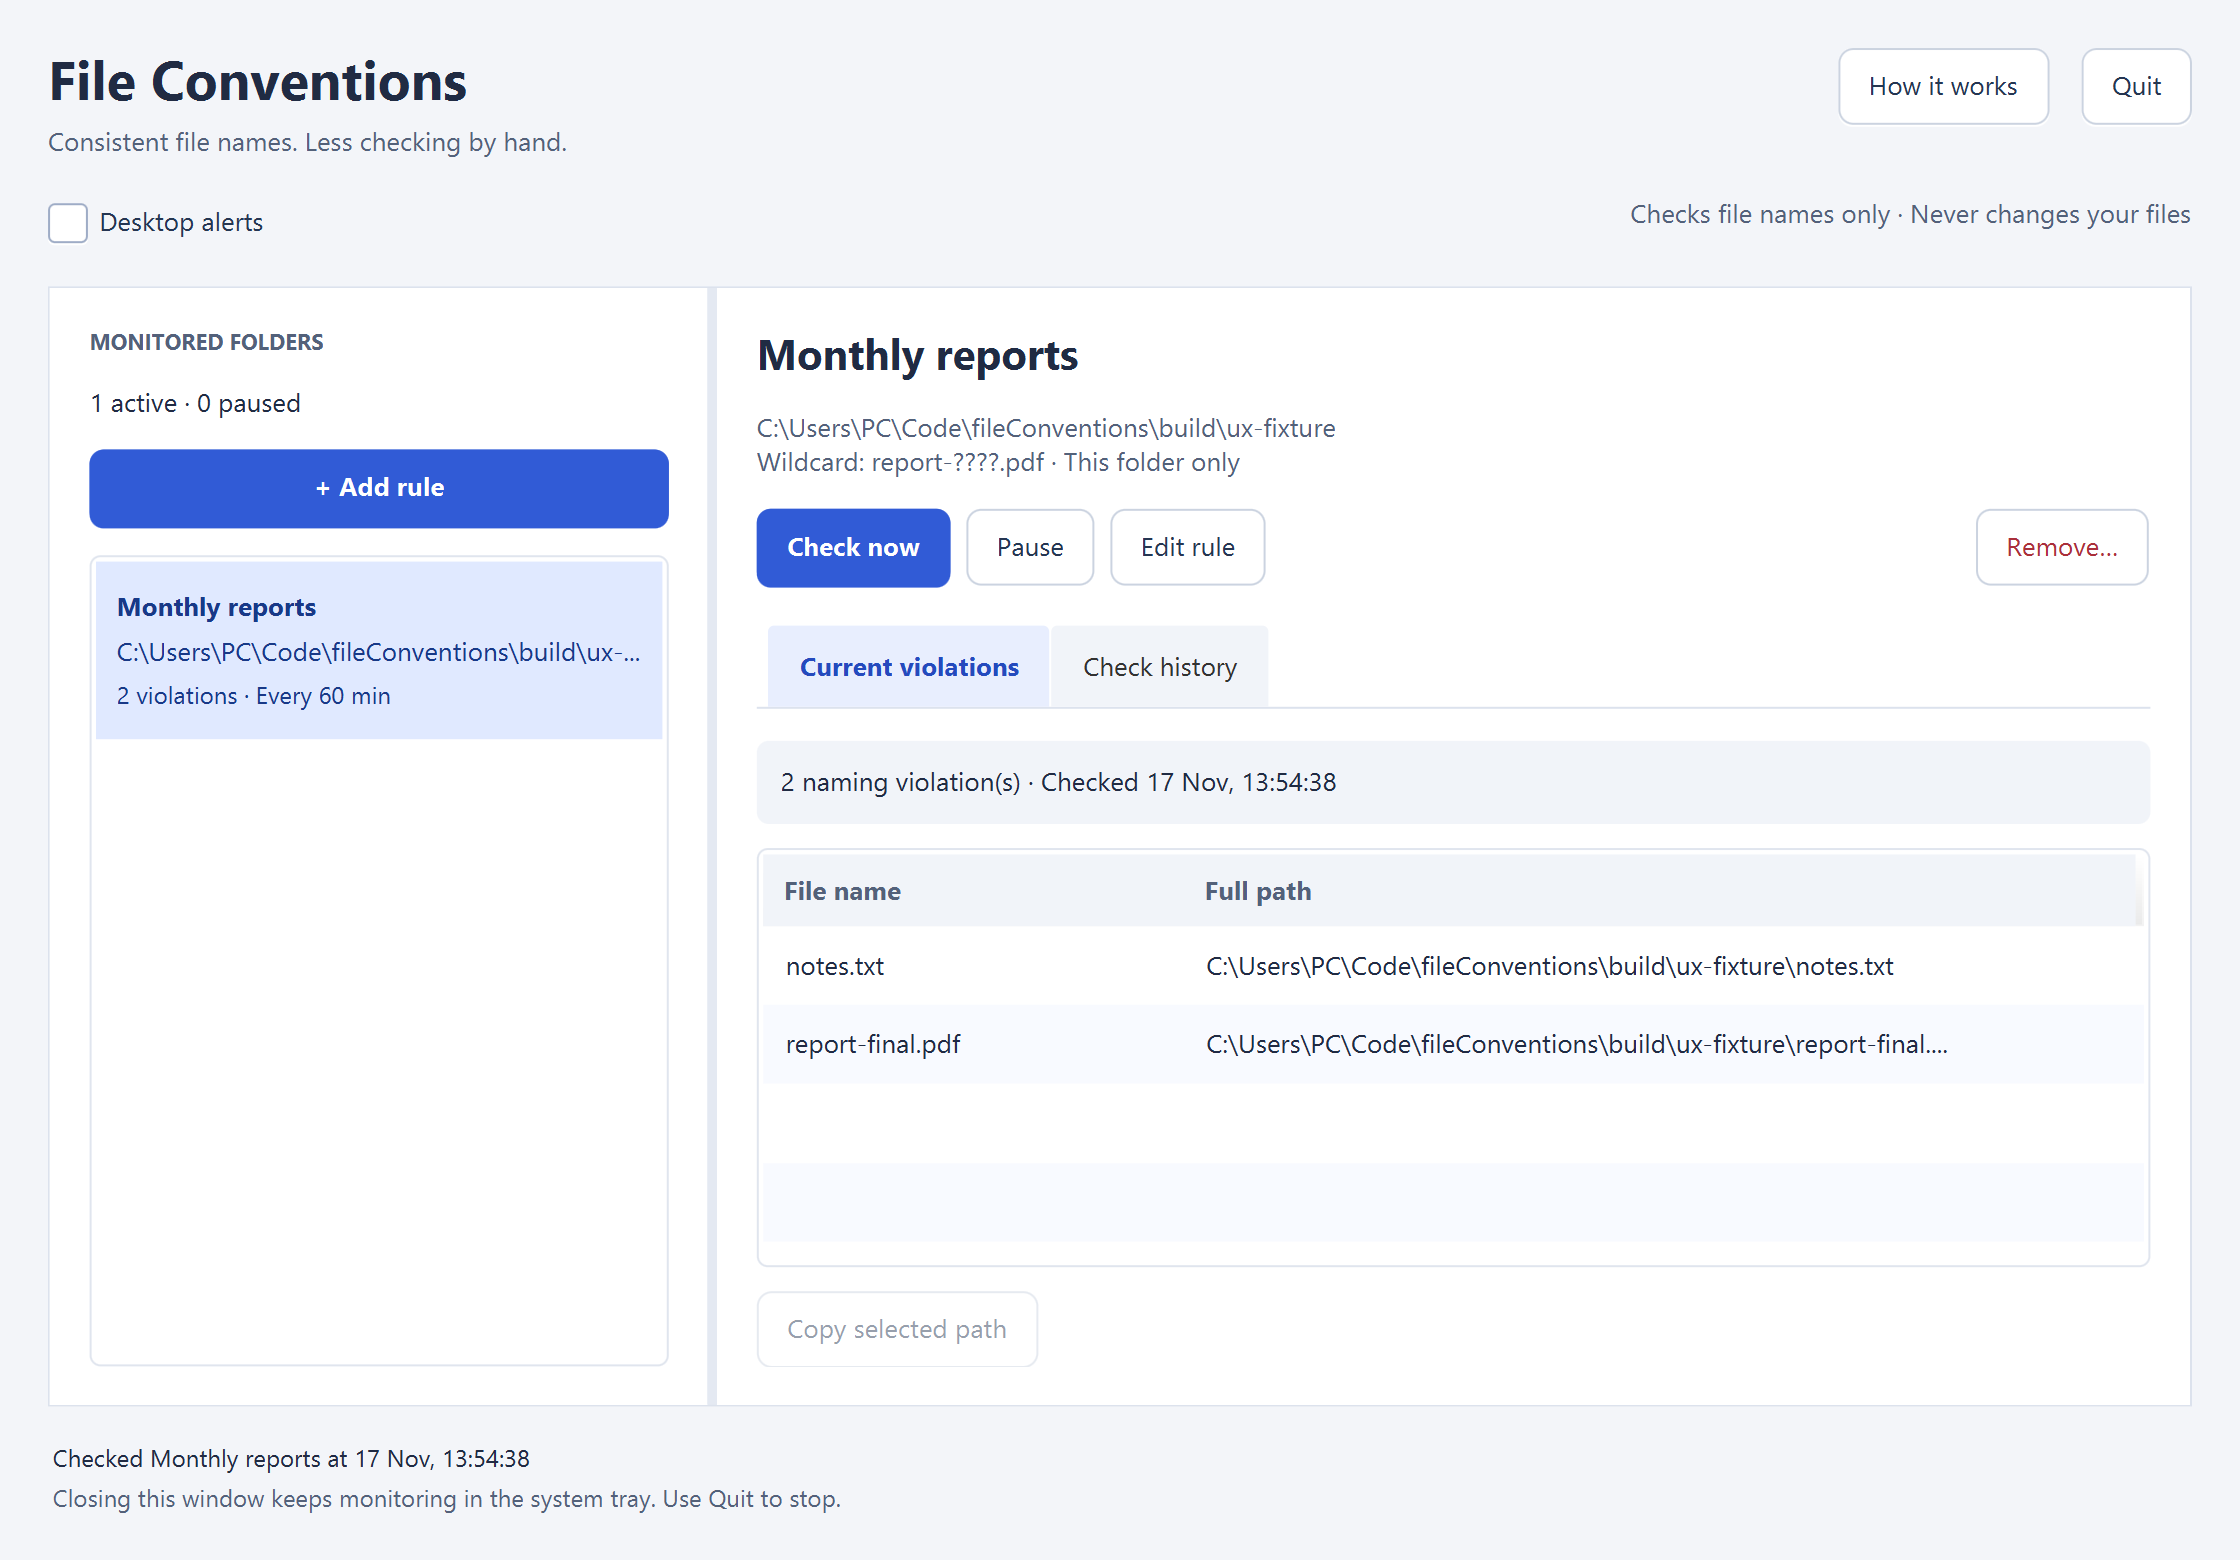
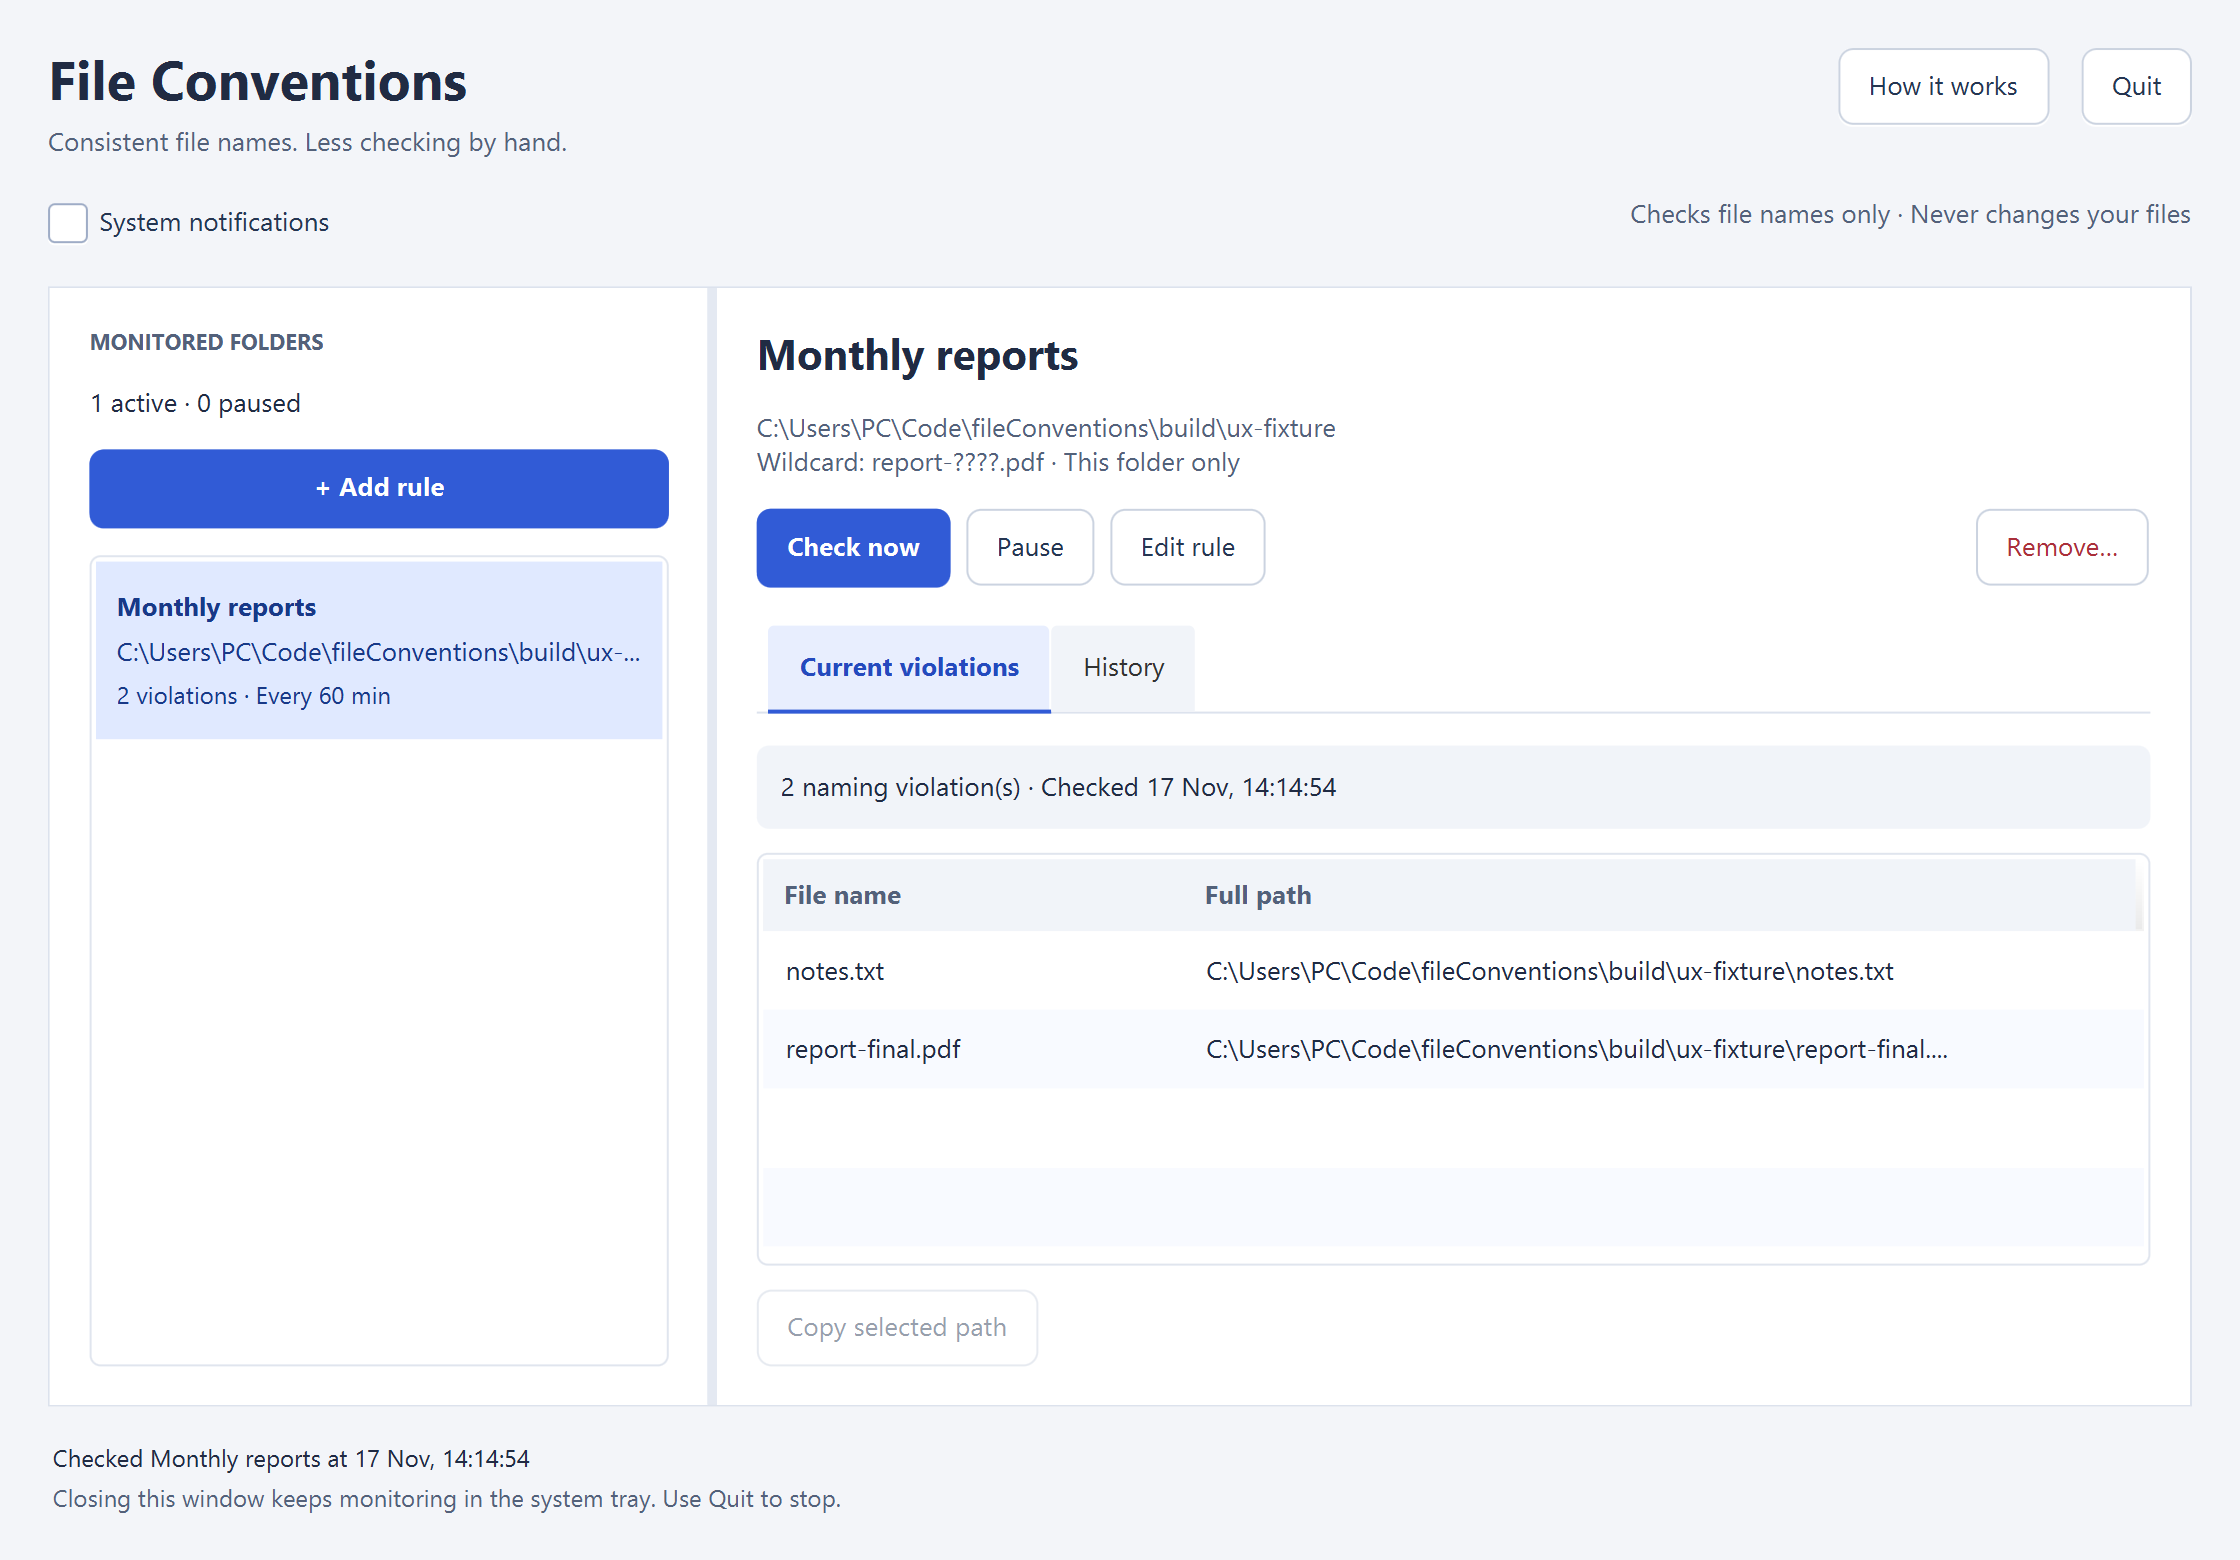
Clarify history counts and simplify tab styling

diff --git a/src/main/kotlin/fileConventions/MainPage.kt b/src/main/kotlin/fileConventions/MainPage.kt
@@ -35,14 +35,17 @@ class MainPage : Application() {
   private val ruleTitle = Label("Your naming checks, at a glance")
   private val ruleDescription = Label()
   private val overview = Label()
-  private val runs = FXCollections.observableArrayList<CheckResult>()
+
+  private data class HistoryEntry(val result: CheckResult, val newViolations: Int)
+
+  private val runs = FXCollections.observableArrayList<HistoryEntry>()
   private val runList = ListView(runs)
   private val runDetails =
       TextArea().apply {
         isEditable = false
         isWrapText = true
       }
-  private val notifications = CheckBox("Desktop alerts")
+  private val notifications = CheckBox("System notifications")
   private val status = Label("Ready")
   private val background = Label()
   private val results = mutableMapOf<String, CheckResult>()
@@ -101,7 +104,7 @@ class MainPage : Application() {
       Platform.runLater {
         if (rules.none { it == result.rule }) return@runLater
         checking.remove(result.rule.id)
-        runs.add(0, result)
+        runs.add(0, HistoryEntry(result, fresh))
         if (runs.size > 100) runs.removeAt(runs.lastIndex)
         latestResults[result.rule.id] = result
         if (result.error == null) results[result.rule.id] = result
@@ -109,7 +112,7 @@ class MainPage : Application() {
         list.refresh()
         status.text =
             if (result.error != null)
-                "Could not check ${result.rule.name}. See Check history for details."
+                "Could not check ${result.rule.name}. See History for details."
             else "Checked ${result.rule.name} at ${time(result.checkedAt)}"
         if (fresh > 0 && notifications.isSelected)
             tray?.displayMessage(
@@ -319,7 +322,7 @@ class MainPage : Application() {
     notifications.tooltip =
         Tooltip(
             if (tray == null)
-                "Desktop alerts require a supported system tray. Checks still work here."
+                "System notifications require a supported system tray. Checks still work here."
             else
                 "Alert once per new violation. Unchanged violations won’t repeat alerts during this session.")
     stage.setOnCloseRequest {
@@ -358,7 +361,7 @@ class MainPage : Application() {
                 "Select a rule to see violations. Check now refreshes immediately, even for a paused rule. Fix names yourself in your file manager; the next check clears resolved violations."),
             label("While you work", "step-title"),
             label(
-                "Enabled rules check on startup, periodically, and after folder changes (with a short settling delay). Desktop alerts appear for new violations; unchanged ones won’t repeat during this session. Check history holds the latest 100 checks until you quit."),
+                "Enabled rules check on startup, periodically, and after folder changes (with a short settling delay). System notifications appear for new violations; unchanged ones won’t repeat during this session. History holds the latest 100 checks until you quit, with total and newly detected violation counts for each check."),
             label(background.text),
             label("Open the app after signing in: installation does not enable automatic startup."),
             label("The app never renames, deletes, or changes your files.", "safe-note"))
@@ -413,34 +416,51 @@ class MainPage : Application() {
         }
     runList.placeholder = label("No checks yet.\nEnabled rules check automatically after saving.")
     runList.setCellFactory {
-      object : ListCell<CheckResult>() {
-        override fun updateItem(item: CheckResult?, empty: Boolean) {
+      object : ListCell<HistoryEntry>() {
+        override fun updateItem(item: HistoryEntry?, empty: Boolean) {
           super.updateItem(item, empty)
           text =
               if (empty || item == null) null
               else
-                  "${item.rule.name} · ${time(item.checkedAt)}\n${if (item.error != null) "Check failed" else "${item.issues.size} violations"}"
+                  "${item.result.rule.name} · ${time(item.result.checkedAt)}\n" +
+                      if (item.result.error != null) "Check failed · Counts unavailable"
+                      else "${item.result.issues.size} total violations · ${item.newViolations} new"
         }
       }
     }
-    runList.selectionModel.selectedItemProperty().addListener { _, _, run ->
+    runList.selectionModel.selectedItemProperty().addListener { _, _, entry ->
+      val run = entry?.result
       runDetails.text =
           if (run == null) "Select a check to see details."
           else
-              "Rule: ${run.rule.name}\nChecked: ${time(run.checkedAt)}\nFolder: ${run.rule.pathToMonitor}\nPattern: ${run.rule.pattern}\nInclude subfolders: ${run.rule.recursive}\n\n" +
-                  (run.error?.let { "Check failed: $it" }
-                      ?: "${run.issues.size} violations\n" +
-                          run.issues.joinToString("\n") { it.sourceFilePath })
+              (run.error?.let { "Check failed: $it\nCounts unavailable." }
+                  ?: "Total violations: ${run.issues.size}\nNew this check: ${entry.newViolations}") +
+                  "\n\nRule: ${run.rule.name}\nChecked: ${time(run.checkedAt)}\nFolder: ${run.rule.pathToMonitor}\nPattern: ${run.rule.pattern}\nInclude subfolders: ${if (run.rule.recursive) "Yes" else "No"}" +
+                  if (run.error == null)
+                      "\n\nAll files violating this rule at this check:\n" +
+                          run.issues.joinToString("\n") { it.sourceFilePath }
+                  else ""
     }
     runDetails.text = "Select a check to see details."
     val history =
-        SplitPane(runList, runDetails).apply { orientation = javafx.geometry.Orientation.VERTICAL }
-    val historyPane =
-        VBox(12.0, label("Latest 100 checks · This session only"), history).apply {
-          padding = Insets(16.0, 0.0, 0.0, 0.0)
-          VBox.setVgrow(history, Priority.ALWAYS)
+        SplitPane(runList, runDetails).apply {
+          orientation = javafx.geometry.Orientation.VERTICAL
+          minHeight = 0.0
+          setDividerPositions(0.4)
         }
-    return TabPane(Tab("Current violations", current), Tab("Check history", historyPane)).apply {
+    val historyPane =
+        VBox(
+                12.0,
+                label("Latest 100 checks · This session only"),
+                label(
+                        "Total = all violations in that check. New = first detected or returned after resolution.\nThe first check counts existing violations as new.")
+                    .apply { minHeight = Region.USE_PREF_SIZE },
+                history)
+            .apply {
+              padding = Insets(16.0, 0.0, 0.0, 0.0)
+              VBox.setVgrow(history, Priority.ALWAYS)
+            }
+    return TabPane(Tab("Current violations", current), Tab("History", historyPane)).apply {
       tabClosingPolicy = TabPane.TabClosingPolicy.UNAVAILABLE
     }
   }

diff --git a/src/main/resources/main.css b/src/main/resources/main.css
@@ -47,9 +47,12 @@
 .table-row-cell:odd { -fx-background-color: #f8faff; }
 .table-row-cell:filled:selected { -fx-background-color: #e0e9ff; -fx-text-background-color: #193988; }
 .tab-pane > .tab-header-area > .tab-header-background { -fx-background-color: white; -fx-border-color: transparent transparent #dce2ed transparent; }
-.tab { -fx-background-color: #f1f4f9; -fx-padding: 9 16; }
+.tab { -fx-background-color: #f1f4f9; -fx-padding: 9 16; -fx-border-color: transparent; -fx-border-width: 0 0 2 0; }
 .tab:selected { -fx-background-color: #e8eefe; }
 .tab:selected .tab-label { -fx-text-fill: #244bbd; -fx-font-weight: bold; }
+/* Use the tab edge as the focus cue instead of a second box around its text. */
+.tab-pane:focused > .tab-header-area > .headers-region > .tab:selected .focus-indicator { -fx-border-color: transparent; }
+.tab-pane:focused > .tab-header-area > .headers-region > .tab:selected { -fx-border-color: #315bd6; }
 .summary { -fx-background-color: #f1f4f9; -fx-background-radius: 6; -fx-padding: 12; -fx-max-width: infinity; }
 .error-summary { -fx-background-color: #fff0eb; -fx-text-fill: #93351b; }
 .success-summary { -fx-background-color: #edf8f2; -fx-text-fill: #246348; }

diff --git a/docs/usage.md b/docs/usage.md
@@ -19,9 +19,9 @@ For Google Drive, choose a folder exposed on your computer by the desktop sync c
 
 All naming checks run locally. File Conventions does not upload file names, contents, rules, or results, and requires no app account or cloud service. Access to a network drive or Google Drive still uses your existing network connection or sync software.
 
-Use **Desktop alerts** above the rules to turn desktop alerts on or off. The setting is saved across restarts; checks and the violations list continue working while alerts are off. Turning alerts back on applies to newly detected violations on subsequent checks.
+Use **System notifications** above the rules to turn OS notifications on or off. The setting is saved across restarts; checks and the violations list continue working while notifications are off. Turning notifications back on applies to newly detected violations on subsequent checks.
 
-**Check history** is a separate troubleshooting view. Each check is listed as an individual run with its rule, timestamp, outcome, and details. The latest 100 runs are kept for the current session.
+**History** lists each check with its rule, timestamp, and outcome. **Total violations** counts all violations found in that check; **new** counts violations newly detected for that rule during the session, including previously resolved violations that return. The first successful check counts existing violations as new. These counts are recorded even when system notifications are off. Failed checks show **Counts unavailable** rather than a misleading zero. Select a check to see both counts and the full list of files that violated the rule at that time. The latest 100 checks are kept for the current session.
 
 When a system tray is available, closing the window leaves the application monitoring in the background. Use the tray menu to reopen it or quit. If your desktop has no supported tray, keep the application window open. Monitoring stops when the application quits or you log out; installation does not automatically configure login startup.
 

diff --git a/README.md b/README.md
@@ -30,7 +30,7 @@ On Windows, **Run File Conventions** is checked by default on the installer's fi
 
 Otherwise, launch it from your application menu or shortcut. Open it again after signing in: installation does not enable automatic startup.
 
-Installers are unsigned, so Windows or macOS may show an unfamiliar-publisher warning. Linux needs a graphical desktop. Desktop alerts require system tray support and notifications enabled in your OS. Without a supported tray, you can still review results in the open app.
+Installers are unsigned, so Windows or macOS may show an unfamiliar-publisher warning. Linux needs a graphical desktop. System notifications require system tray support and notifications enabled in your OS. Without a supported tray, you can still review results in the open app.
 
 ## How it works
 
@@ -40,7 +40,7 @@ Installers are unsigned, so Windows or macOS may show an unfamiliar-publisher wa
 - Keeps monitoring when you close the window if a system tray is available. Otherwise, keep the window open. Use **Quit** to stop.
 - Use **Pause** / **Resume** to control automatic checks for a rule. **Check now** still works as a one-time check while paused. Removing a rule leaves its files untouched.
 - Copy a violating file's path with **Copy selected path**, then fix the name yourself. Resolved entries disappear on the next check. Failed scans retain previous successful results with a warning that they may be out of date.
-- **Check history** keeps the latest 100 checks for troubleshooting until you quit.
+- **History** keeps the latest 100 checks until you quit. Each entry shows the total violations found and how many were newly detected in that check.
 
 Patterns describe **valid names** and match the entire file name, including the extension, case-sensitively:
 
